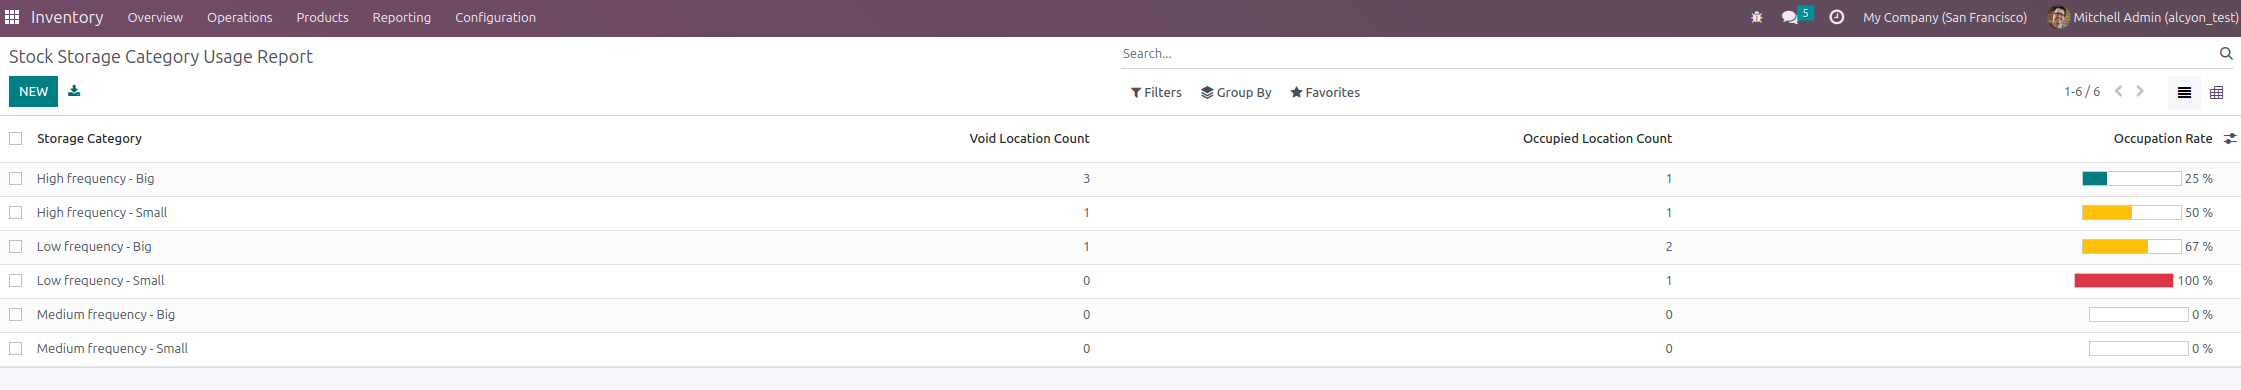
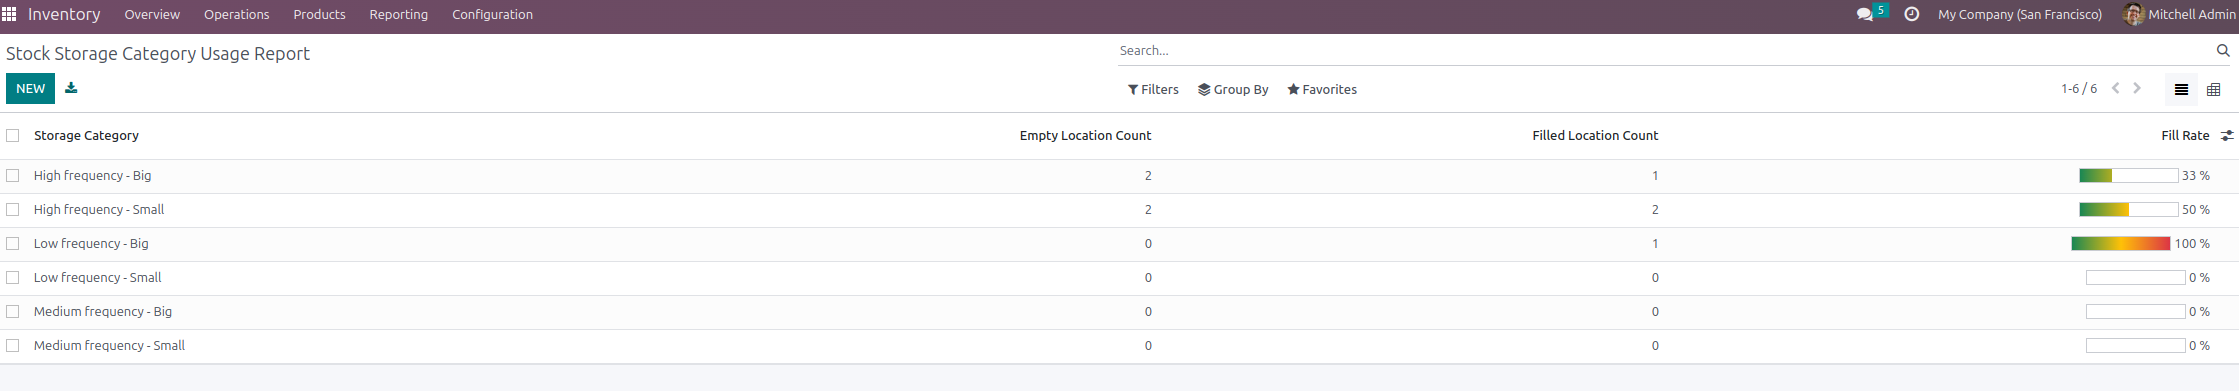
[IMP] stock_storage_category_usage_report: Change dependency on stock_location_fill_rate

diff --git a/stock_storage_category_usage_report/static/description/index.html b/stock_storage_category_usage_report/static/description/index.html
@@ -367,7 +367,7 @@ ul.auto-toc {
 !! This file is generated by oca-gen-addon-readme !!
 !! changes will be overwritten.                   !!
 !!!!!!!!!!!!!!!!!!!!!!!!!!!!!!!!!!!!!!!!!!!!!!!!!!!!
-!! source digest: sha256:286785e4ed90a55e72a7c3e927bb40d445678ac5ceafede2bc3ded649ff2fde6
+!! source digest: sha256:0053ca728015cbb69203234451fd3d51c413c65ebc82eda0572c52f0f3b7b93a
 !!!!!!!!!!!!!!!!!!!!!!!!!!!!!!!!!!!!!!!!!!!!!!!!!!!! -->
 <p><a class="reference external image-reference" href="https://odoo-community.org/page/development-status"><img alt="Beta" src="https://img.shields.io/badge/maturity-Beta-yellow.png" /></a> <a class="reference external image-reference" href="http://www.gnu.org/licenses/agpl-3.0-standalone.html"><img alt="License: AGPL-3" src="https://img.shields.io/badge/licence-AGPL--3-blue.png" /></a> <a class="reference external image-reference" href="https://github.com/OCA/stock-logistics-reporting/tree/16.0/stock_storage_category_usage_report"><img alt="OCA/stock-logistics-reporting" src="https://img.shields.io/badge/github-OCA%2Fstock--logistics--reporting-lightgray.png?logo=github" /></a> <a class="reference external image-reference" href="https://translation.odoo-community.org/projects/stock-logistics-reporting-16-0/stock-logistics-reporting-16-0-stock_storage_category_usage_report"><img alt="Translate me on Weblate" src="https://img.shields.io/badge/weblate-Translate%20me-F47D42.png" /></a> <a class="reference external image-reference" href="https://runboat.odoo-community.org/builds?repo=OCA/stock-logistics-reporting&amp;target_branch=16.0"><img alt="Try me on Runboat" src="https://img.shields.io/badge/runboat-Try%20me-875A7B.png" /></a></p>
 <p>This module allows to get reporting on stock storage categories about
@@ -396,10 +396,10 @@ need those locations’ usage (empty/filled in).</p>
 <h1><a class="toc-backref" href="#toc-entry-2">Usage</a></h1>
 <ul class="simple">
 <li>Go to Inventory &gt; Analysis &gt; Stock Storage Category Usage Report</li>
-<li>Each category will contain a occupation rate depending on the
-occupation of all its children locations. It will display also the
-number of void and occupied locations.</li>
-<li>The occupation rate is also present on storage categories level.</li>
+<li>Each category will contain a fill rate depending on the occupation of
+all its children locations. It will display also the number of empty
+and filled locations.</li>
+<li>The fill rate is also present on storage categories level.</li>
 </ul>
 </div>
 <div class="section" id="bug-tracker">

diff --git a/stock_storage_category_usage_report/models/stock_storage_category.py b/stock_storage_category_usage_report/models/stock_storage_category.py
@@ -7,51 +7,54 @@ class StockStorageCategory(models.Model):
 
     _inherit = "stock.storage.category"
 
-    void_location_ids = fields.Many2many(
+    empty_location_ids = fields.Many2many(
         comodel_name="stock.location",
-        compute="_compute_void_location_ids",
-        help="These are the void locations having this storage category",
+        compute="_compute_empty_location_ids",
+        help="These are the empty locations having this storage category",
     )
-    occupied_location_ids = fields.Many2many(
+    filled_location_ids = fields.Many2many(
         comodel_name="stock.location",
-        compute="_compute_void_location_ids",
-        help="These are the void locations having this storage category",
+        compute="_compute_empty_location_ids",
+        help="These are the filled locations having this storage category",
     )
-    void_location_count = fields.Integer(
-        compute="_compute_void_location_ids",
-        search="_search_void_location_count",
-        help="This is the number of void locations having this storage category",
+    empty_location_count = fields.Integer(
+        compute="_compute_empty_location_ids",
+        search="_search_empty_location_count",
+        help="This is the number of empty locations having this storage category",
     )
-    occupied_location_count = fields.Integer(
-        compute="_compute_void_location_ids",
+    filled_location_count = fields.Integer(
+        compute="_compute_empty_location_ids",
         help="This is the number of occupied locations having this storage category",
     )
-    occupation_rate = fields.Float(
-        compute="_compute_void_location_ids",
+    fill_rate = fields.Float(
+        compute="_compute_empty_location_ids",
     )
 
     @api.depends("location_ids.children_ids")
-    def _compute_void_location_ids(self):
+    def _compute_empty_location_ids(self):
         for category in self:
             all_locations = (
                 category.location_ids | category.location_ids.children_ids
             ).filtered(lambda location: location.usage != "view")
-            void_locations = all_locations.filtered(
-                lambda location: not location.occupied
+            # Empty locations are locations empty and being emptied
+            # (move qty is done but not yet validated).
+            # We don't take into account filled and being filled moves.
+            empty_locations = all_locations.filtered(
+                lambda location: location.fill_state == "empty"
             )
-            occupied_locations = all_locations - void_locations
+            filled_locations = all_locations - empty_locations
             if all_locations:
-                occupation_rate = float(
-                    100 - ((len(void_locations) / len(all_locations)) * 100)
+                fill_rate = float(
+                    100 - ((len(empty_locations) / len(all_locations)) * 100)
                 )
             else:
-                occupation_rate = 0.0
+                fill_rate = 0.0
             category.update(
                 {
-                    "void_location_ids": void_locations.ids,
-                    "occupied_location_ids": occupied_locations.ids,
-                    "occupied_location_count": len(occupied_locations),
-                    "void_location_count": len(void_locations),
-                    "occupation_rate": occupation_rate,
+                    "empty_location_ids": empty_locations.ids,
+                    "filled_location_ids": filled_locations.ids,
+                    "filled_location_count": len(filled_locations),
+                    "empty_location_count": len(empty_locations),
+                    "fill_rate": fill_rate,
                 }
             )

diff --git a/stock_storage_category_usage_report/tests/test_usage_report.py b/stock_storage_category_usage_report/tests/test_usage_report.py
@@ -119,23 +119,33 @@ class TestUsageReport(BaseCommon):
 
     @classmethod
     def _update_quantity(cls, product, location, quantity):
-        cls.env["stock.quant"].with_context(inventory_mode=True).create(
-            {"product_id": product.id, "location_id": location.id, "quantity": quantity}
-        )._apply_inventory()
+        quants = (
+            cls.env["stock.quant"]
+            .with_context(inventory_mode=True)
+            .create(
+                {
+                    "product_id": product.id,
+                    "location_id": location.id,
+                    "inventory_quantity": quantity,
+                }
+            )
+        )
+        quants._apply_inventory()
+        return quants
 
     def test_usage_report(self):
-        self.assertEqual((self.large_shelf_2), self.storage_large.void_location_ids)
-        self.assertEqual(1, self.storage_large.void_location_count)
-        self.assertAlmostEqual(self.storage_large.occupation_rate, 66.67, places=2)
+        self.assertEqual((self.large_shelf_2), self.storage_large.empty_location_ids)
+        self.assertEqual(1, self.storage_large.empty_location_count)
+        self.assertAlmostEqual(self.storage_large.fill_rate, 66.67, places=2)
         self.assertEqual(
             (self.medium_shelf_2 | self.medium_shelf_3),
-            self.storage_medium.void_location_ids,
+            self.storage_medium.empty_location_ids,
         )
-        self.assertEqual(2, self.storage_medium.void_location_count)
+        self.assertEqual(2, self.storage_medium.empty_location_count)
         self.storage_medium_void = self.storage_category.create(
             {
                 "name": "Medium Storage Void",
             }
         )
         self.medium_shelf_3.storage_category_id = self.storage_medium_void
-        self.assertEqual(self.storage_medium_void.occupation_rate, 0.0)
+        self.assertEqual(self.storage_medium_void.fill_rate, 0.0)

diff --git a/stock_storage_category_usage_report/__manifest__.py b/stock_storage_category_usage_report/__manifest__.py
@@ -13,7 +13,7 @@
     "depends": [
         "stock",
         "stock_location_children",
-        "stock_location_occupancy",
+        "stock_location_fill_state",
         "web_widget_progressbar_gradient",
     ],
     "data": [

diff --git a/stock_storage_category_usage_report/README.rst b/stock_storage_category_usage_report/README.rst
@@ -7,7 +7,7 @@ Stock Storage Category Usage Report
    !! This file is generated by oca-gen-addon-readme !!
    !! changes will be overwritten.                   !!
    !!!!!!!!!!!!!!!!!!!!!!!!!!!!!!!!!!!!!!!!!!!!!!!!!!!!
-   !! source digest: sha256:286785e4ed90a55e72a7c3e927bb40d445678ac5ceafede2bc3ded649ff2fde6
+   !! source digest: sha256:0053ca728015cbb69203234451fd3d51c413c65ebc82eda0572c52f0f3b7b93a
    !!!!!!!!!!!!!!!!!!!!!!!!!!!!!!!!!!!!!!!!!!!!!!!!!!!!
 
 .. |badge1| image:: https://img.shields.io/badge/maturity-Beta-yellow.png
@@ -50,10 +50,10 @@ Usage
 =====
 
 - Go to Inventory > Analysis > Stock Storage Category Usage Report
-- Each category will contain a occupation rate depending on the
-  occupation of all its children locations. It will display also the
-  number of void and occupied locations.
-- The occupation rate is also present on storage categories level.
+- Each category will contain a fill rate depending on the occupation of
+  all its children locations. It will display also the number of empty
+  and filled locations.
+- The fill rate is also present on storage categories level.
 
 Bug Tracker
 ===========

diff --git a/stock_storage_category_usage_report/readme/USAGE.md b/stock_storage_category_usage_report/readme/USAGE.md
@@ -1,5 +1,5 @@
 - Go to Inventory > Analysis > Stock Storage Category Usage Report
-- Each category will contain a occupation rate depending on the
+- Each category will contain a fill rate depending on the
   occupation of all its children locations. It will display also
-  the number of void and occupied locations.
-- The occupation rate is also present on storage categories level.
+  the number of empty and filled locations.
+- The fill rate is also present on storage categories level.
